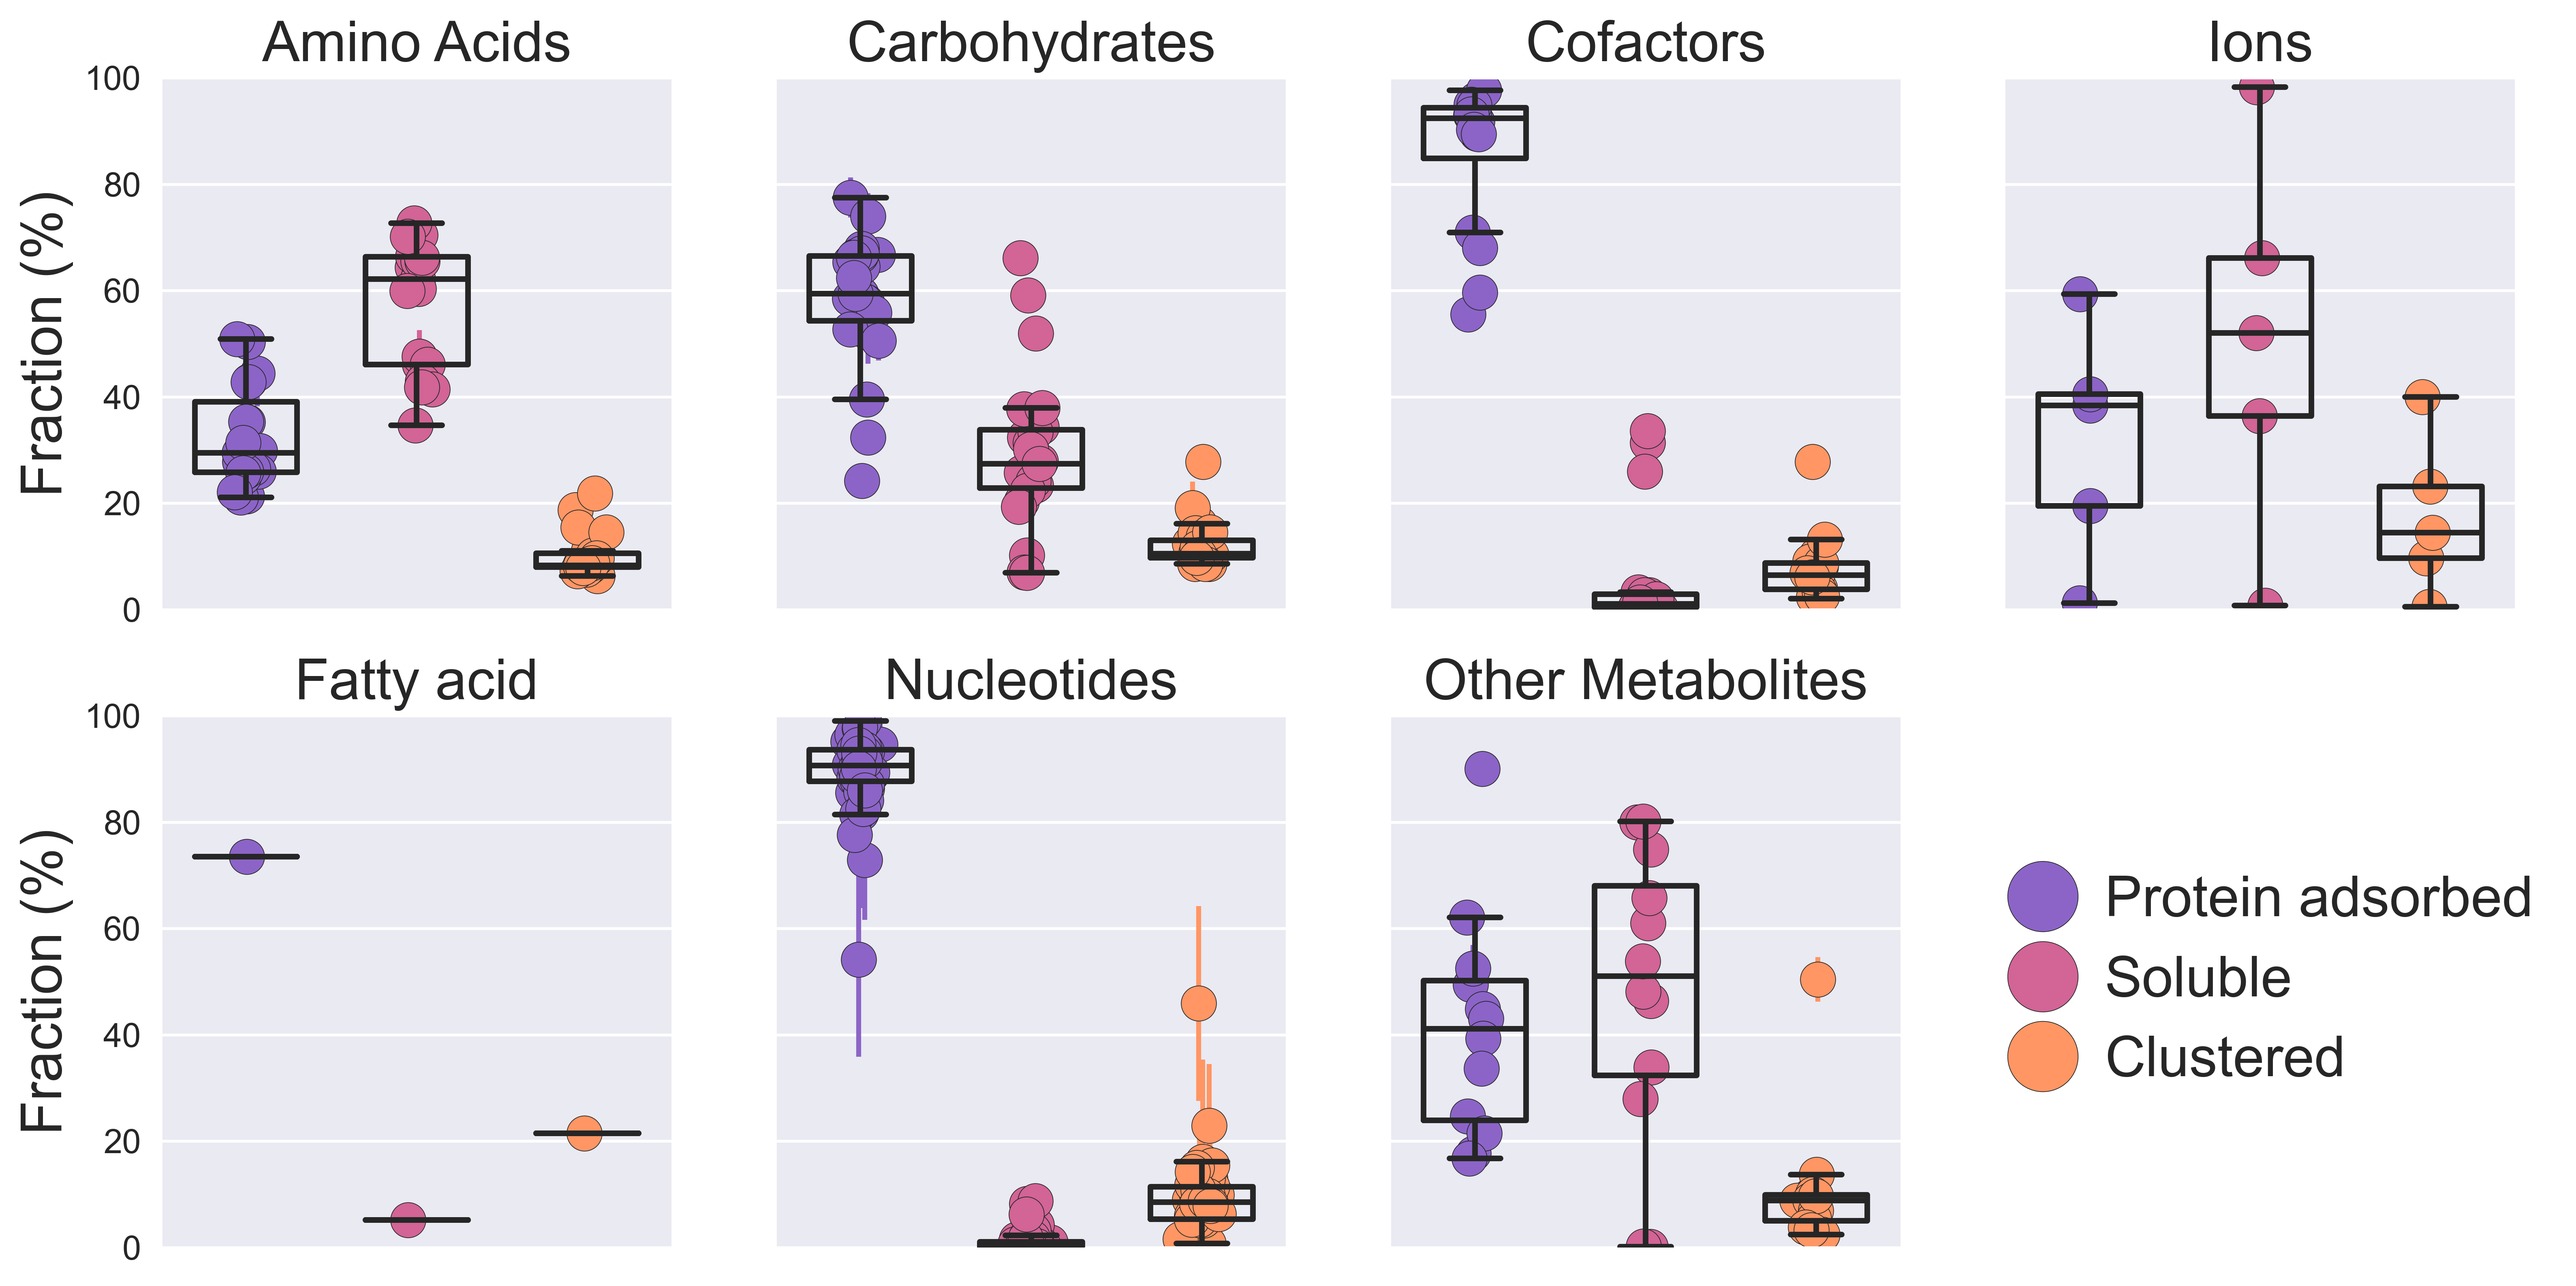
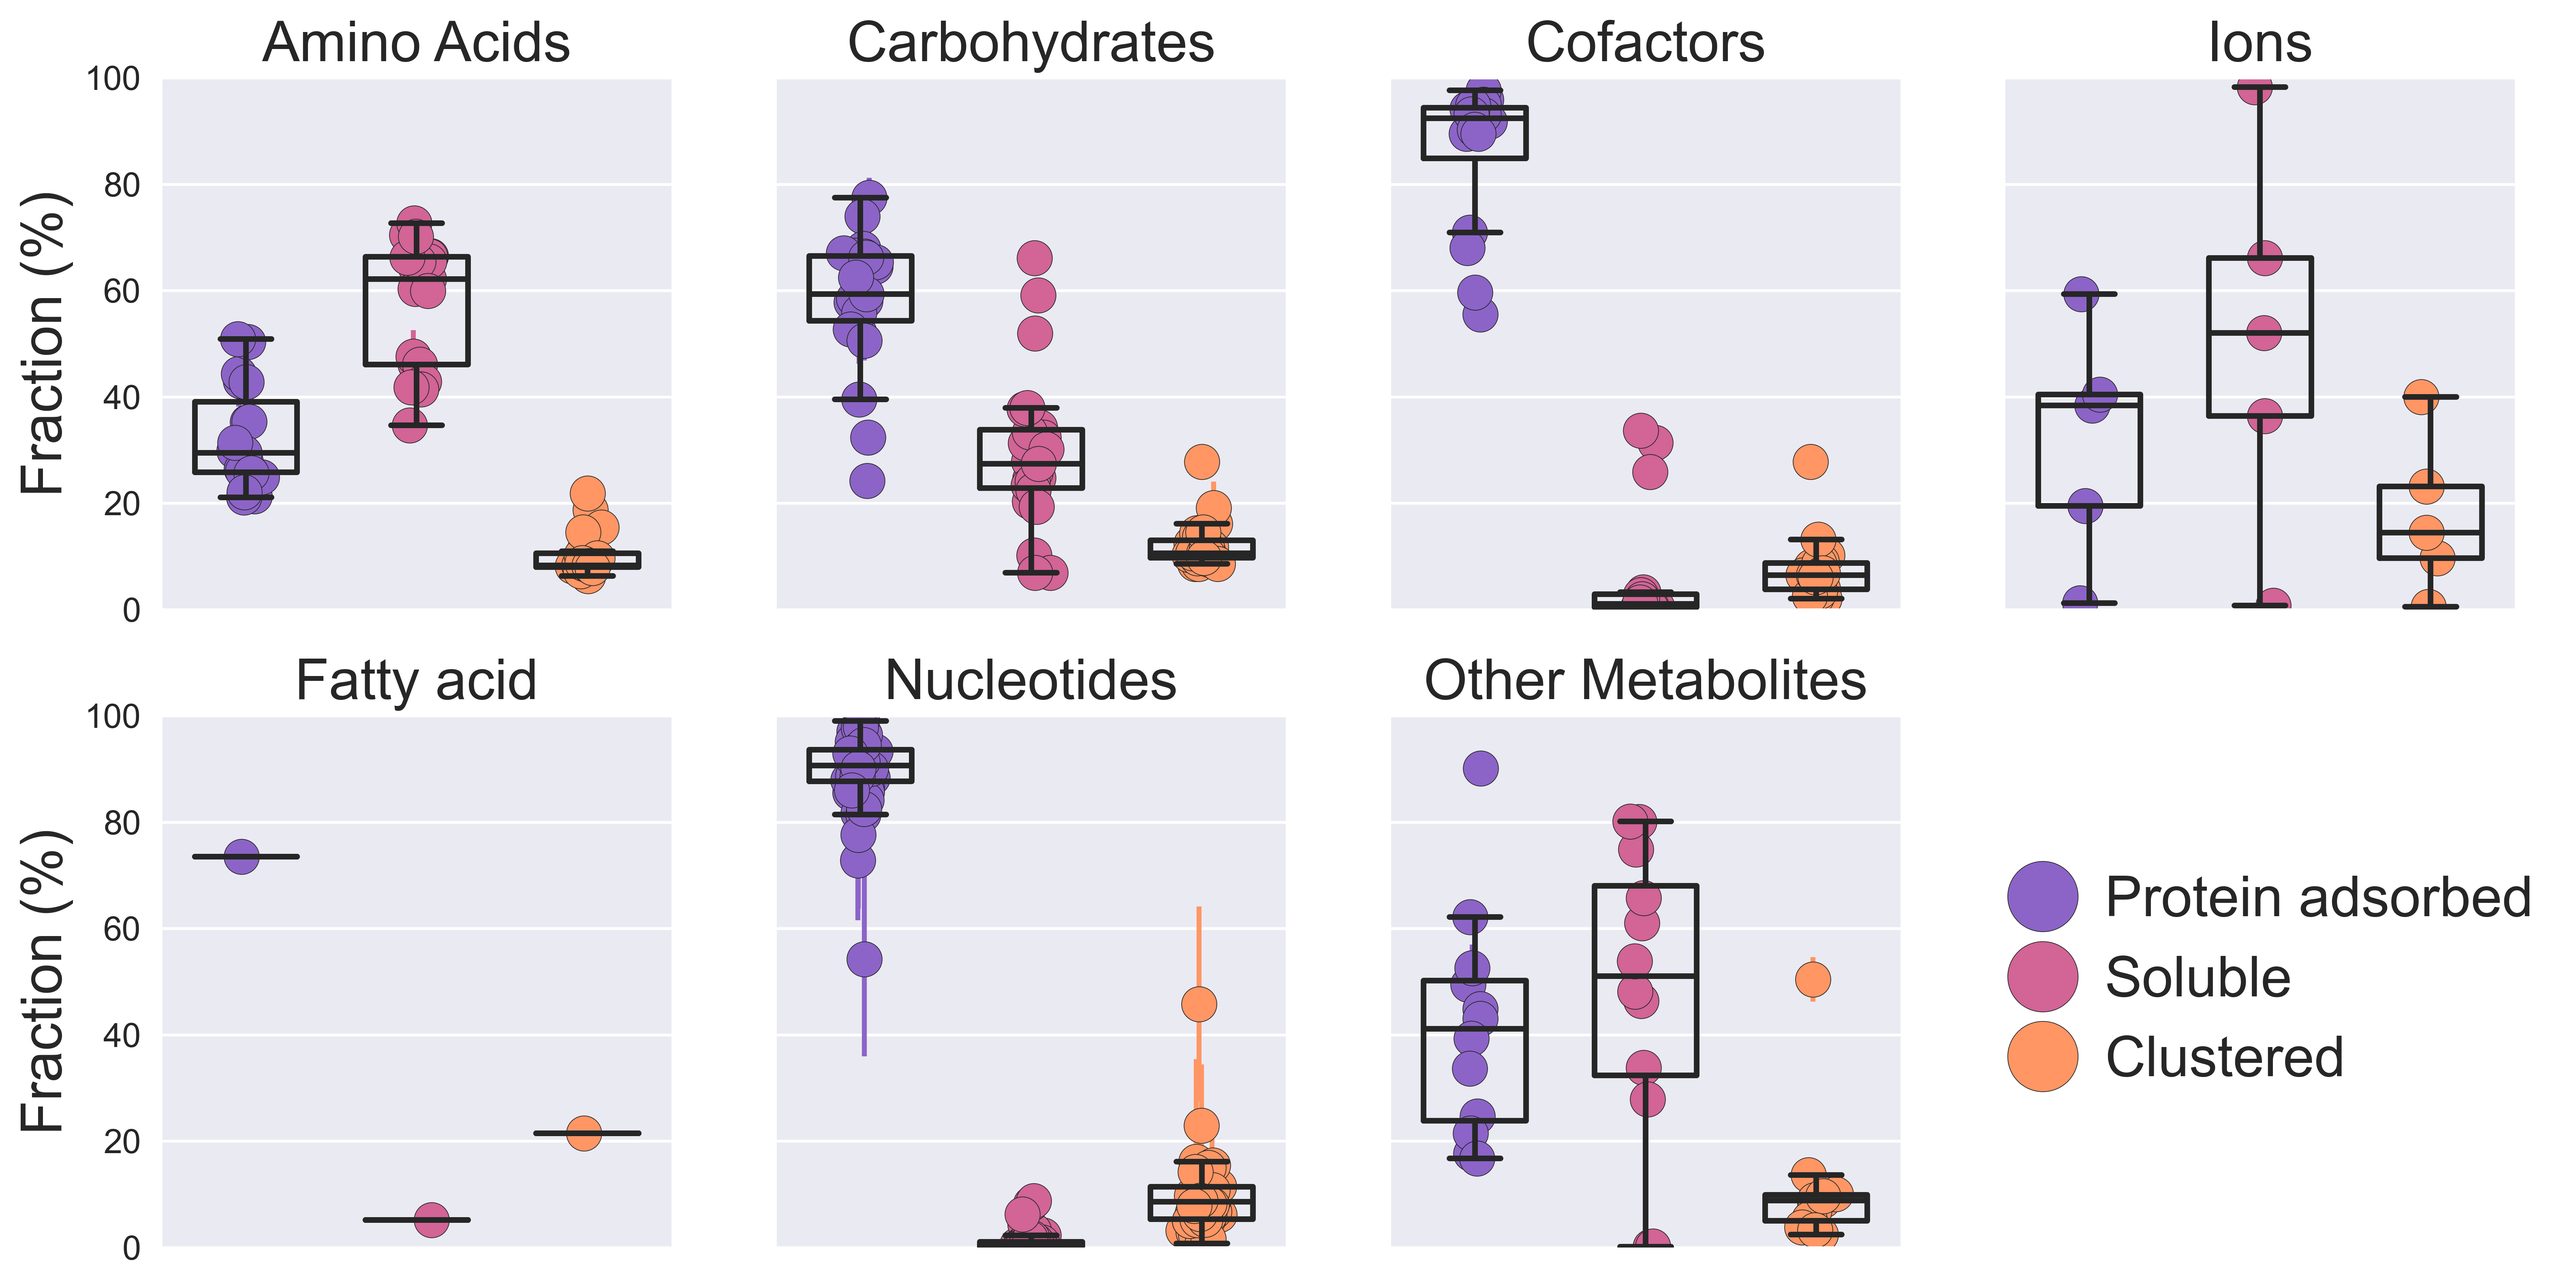
revisions

diff --git a/figures/partitioning_figures/make_figure_partitioning_evolution.py b/figures/partitioning_figures/make_figure_partitioning_evolution.py
@@ -31,7 +31,7 @@ for result in results_list:
     results.append(analysed_results)
 
 # this line because one didn't quite run to the last frame
-results = [i[:250] for i in results]
+results = [i for i in results]
 proportions = np.stack(results)
 
 proportion_values = proportions.mean(axis=0)
